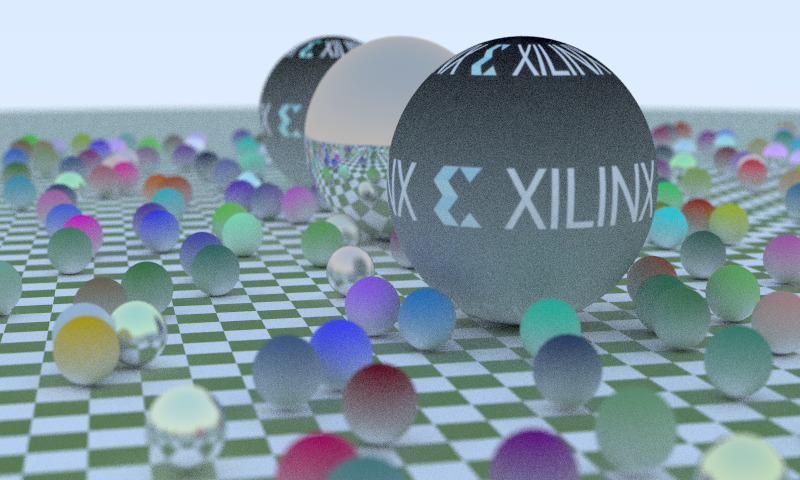
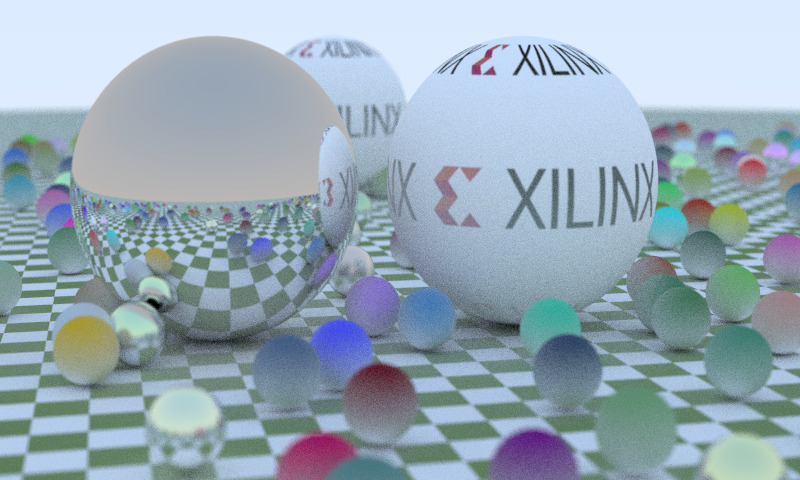
Image Texture update

diff --git a/RT_SYCL/main.cpp b/RT_SYCL/main.cpp
@@ -222,8 +222,8 @@ int main()
     }
 
     //Three large spheres of metal and lambertian material types
-    spheres.emplace_back(point3{-0, 1, 0}, 1, material_t::Metal, color(0.7, 0.6, 0.5), 0.0);
-    t = image_texture("/home/kranipet/Ray Tracer/RT_SYCL/XInv.jpg");
+    spheres.emplace_back(point3{4, 1, 2.25}, 1, material_t::Metal, color(0.7, 0.6, 0.5), 0.0);
+    t = image_texture("/home/kranipet/Ray Tracer/RT_SYCL/Xilinx.jpg");
     spheres.emplace_back(point3{4, 1, 0}, 1, material_t::Lambertian, t);
     t = image_texture("/home/kranipet/Ray Tracer/RT_SYCL/Xilinx.jpg");
     spheres.emplace_back(point3{-4, 1, 0}, 1, material_t::Lambertian, t);
